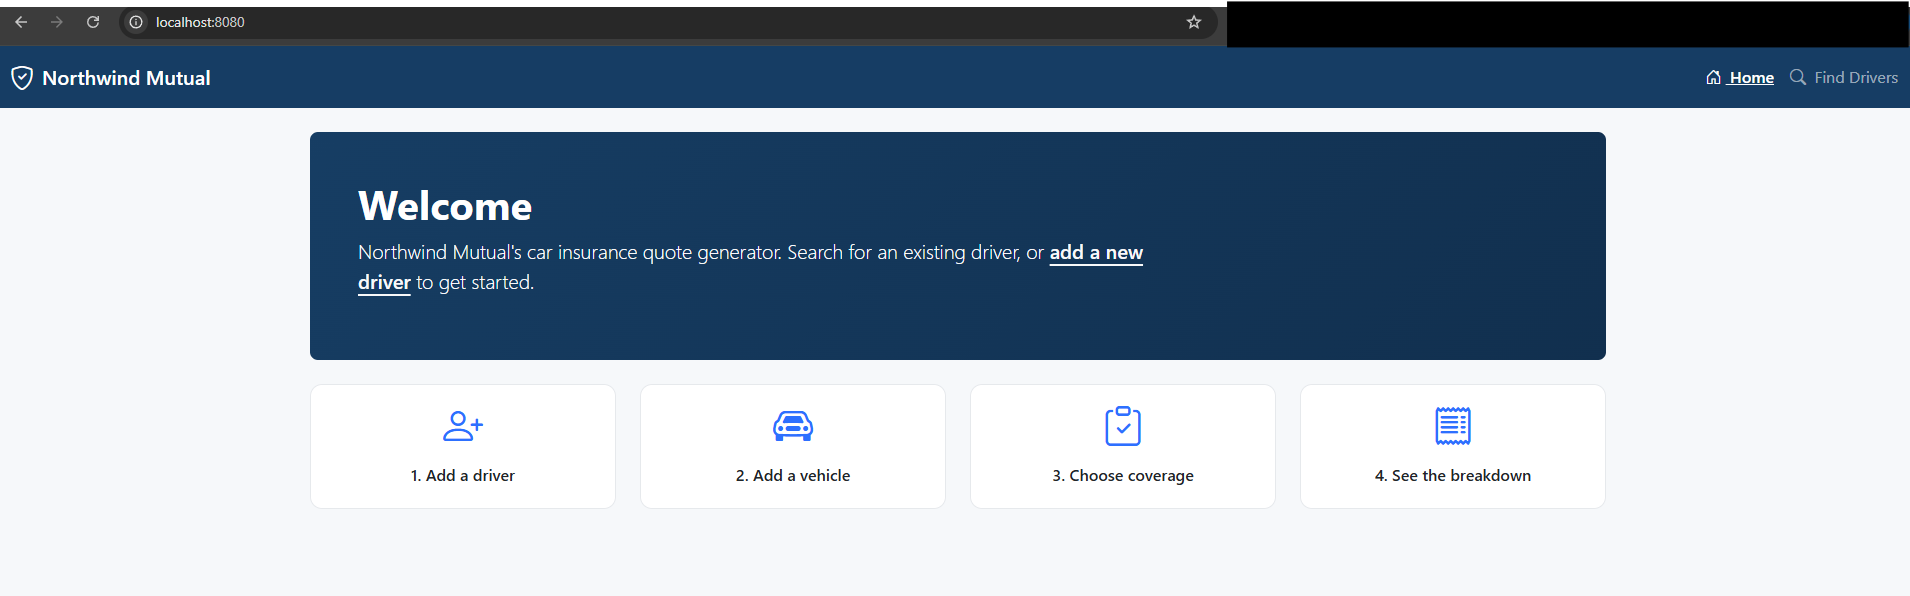
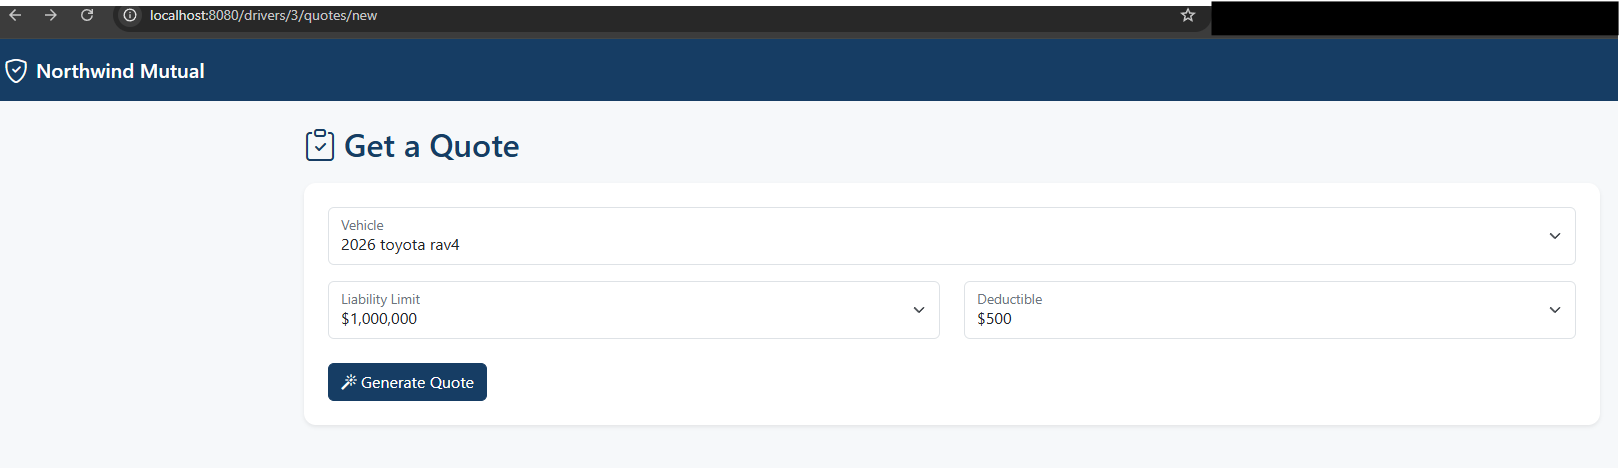
Add welcome page and add-driver screenshots; refresh quote form shot
Fills the remaining app UI gaps in the README story: welcome page -> add
driver -> quote form -> quote result now shows the full user journey.
SCREENSHOTS.md updated to reflect all three entries as captured.

diff --git a/README.md b/README.md
@@ -105,10 +105,24 @@ base rate. Every intermediate factor is stored on the `Quote` so the result page
 full breakdown — not a single opaque number.
 
 The UI uses **Bootstrap 5 + Bootstrap Icons** (via WebJars) with a navy Northwind theme.
-The form below takes driver and vehicle details, then calculates and displays the quote
-with the complete rating-factor breakdown on the next screen.
+The flow is: land on the welcome page → add a driver → add a vehicle → request a quote →
+see the full premium breakdown.
 
-![Quote request form — driver and vehicle details entered before calculating a premium](./docs/app-ui-quote-form.png)
+The welcome page is the first thing a user sees — navy navbar, Bootstrap 5 layout, and
+navigation links to find drivers or start a new quote.
+
+![Welcome page — navy Northwind theme, Bootstrap 5 navbar, entry point to the app](./docs/app-ui-welcome-page.png)
+
+Before a quote can be requested, a driver record must exist. The add-driver form captures
+name, date of birth, and years of licence held — the three inputs the rating formula uses
+for the driver age and experience factors.
+
+![Add driver form — name, date of birth, and years licensed](./docs/app-ui-quote-add-driver.png)
+
+With a driver on file, a quote is requested by selecting the vehicle details and coverage
+choices. Every field maps directly to one of the five rating factors.
+
+![Quote request form — vehicle details and coverage choices entered before calculating a premium](./docs/app-ui-quote-form.png)
 
 ![Quote result — the annual premium with each rating factor broken down line by line](./docs/app-ui-quote-result.png)
 

diff --git a/docs/SCREENSHOTS.md b/docs/SCREENSHOTS.md
@@ -17,8 +17,9 @@ Status legend: ✅ captured · ⏳ planned, not yet captured
 
 | Filename | Status | Description | README section |
 |---|---|---|---|
-| `docs/app-ui-welcome.png` | ⏳ | Welcome page, Northwind navy theme, Bootstrap 5 nav. | The app |
-| `docs/app-ui-quote-form.png` | ✅ (2026-06-30) | Request-a-quote form (driver + vehicle + coverage fields). | The app |
+| `docs/app-ui-welcome-page.png` | ✅ (2026-06-30) | Welcome page — navy Northwind theme, Bootstrap 5 navbar, entry point to the app. | The app |
+| `docs/app-ui-quote-add-driver.png` | ✅ (2026-06-30) | Add driver form — name, date of birth, years licensed. | The app |
+| `docs/app-ui-quote-form.png` | ✅ (2026-06-30) | Quote request form — vehicle details and coverage choices. Updated screenshot. | The app |
 | `docs/app-ui-quote-result.png` | ✅ (2026-06-30) | A priced quote result, showing the full rating-factor breakdown. | The app |
 | `docs/app-tests-passing.png` | ✅ (2026-06-30) | CLI: `./mvnw test` output, 10/10 passing. | The app |
 | `docs/app-actuator-health.png` | ✅ (2026-06-26) | Browser: `/actuator/health` response showing UP. | The app |